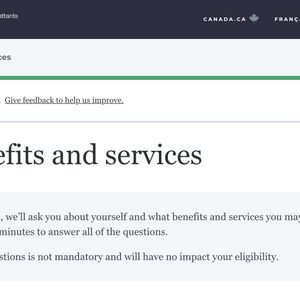
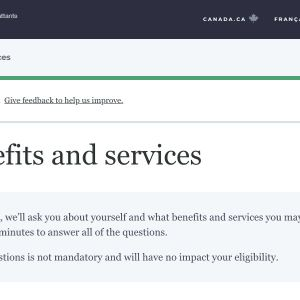
Skip CI - Processed images

diff --git a/content/fr/blog/posts/comment-nous-avons-mesuré-notre-prestation-avec-acc-et-pourquoi-c’est-utile.md b/content/fr/blog/posts/comment-nous-avons-mesuré-notre-prestation-avec-acc-et-pourquoi-c’est-utile.md
@@ -13,7 +13,8 @@ image-alt: >-
   Une capture d’écran de la page d’accueil de l’outil Rechercher des avantages
   et des services.
 translationKey: by-the-numbers
-thumb: /img/cds/VACBenchmarkBlogFRgood.jpg
+thumb: /img/cds/thumbnails/VACBenchmarkBlogFRgood.jpg
+processed: 1556118143794
 ---
 Si nous mesurons une prestation, nous pouvons savoir si nous l’améliorons. C’est pourquoi au Service numérique canadien, nous aimons savoir où nous en sommes avant de commencer à itérer. De cette façon, nous pouvons constater tout le chemin parcouru après avoir perfectionné un produit ou un service.
 
@@ -91,3 +92,4 @@ Nous sommes honorés d’avoir pu travailler avec ACC et participer à une meill
 Nous avons créé [une version générique](https://benefits-avantages.cds-snc.ca/?utm_source=CDS_measurement_blog) de ce produit qui est [disponible sur GitHub](https://github.com/cds-snc/find-benefits-and-services) et qui peut être adaptée par n’importe quel ministère pour leur cas d’utilisation spécifique!
 
 Si vous souhaitez prendre le code (ou toute autre partie du processus) et qu’un pépin arrive en cours de route, n’hésitez pas à créer un [problème (_issue_) dans GitHub](https://github.com/cds-snc/find-benefits-and-services/issues) ou à communiquer avec nous par courriel à l’adresse <mailto:cds-snc@tbs-sct.gc.ca>. Vous pouvez aussi nous trouver sur Twitter à [@sidewalkballet](https://twitter.com/sidewalkballet) et [@stevieraytalbot](https://twitter.com/StevieRayTalbot).
+

diff --git a/content/en/blog/posts/how-we-measured-our-delivery-with-vac-and-why-its-useful.md b/content/en/blog/posts/how-we-measured-our-delivery-with-vac-and-why-its-useful.md
@@ -11,6 +11,7 @@ image: /img/cds/VACBenchmarkBlogENG.jpg
 image-alt: A screenshot of the tool *Find Benefits and services’* landing page.
 translationKey: by-the-numbers
 thumb: /img/cds/thumbnails/VACBenchmarkBlogENG.jpg
+processed: 1556118143713
 ---
 If you measure it, you know if you're making it better. That's why at the Canadian Digital Service we like to have a measure of where we are before we start iterating. That way, we know how far we've come after improving a product or service.
 
@@ -88,5 +89,6 @@ We’re honoured to have been able to work with VAC and be a part of serving Vet
 We’ve made [a generic version](https://benefits-avantages.cds-snc.ca/?utm_source=CDS_measurement_blog) of this product that is [available on GitHub](https://github.com/cds-snc/find-benefits-and-services) and can be adapted by any department for their specific use case!
 
 If you’re looking to take the code - or any other part of the process - and hit a snag along the way, feel free to make a [GitHub issue](https://github.com/cds-snc/find-benefits-and-services/issues) or contact us by email at [cds-snc@tbs-sct.gc.ca](mailto:cds-snc@tbs-sct.gc.ca). Alternatively, you can find us both on twitter at [@sidewalkballet](https://twitter.com/sidewalkballet) and [@stevieraytalbot](https://twitter.com/StevieRayTalbot).
+
 
 
